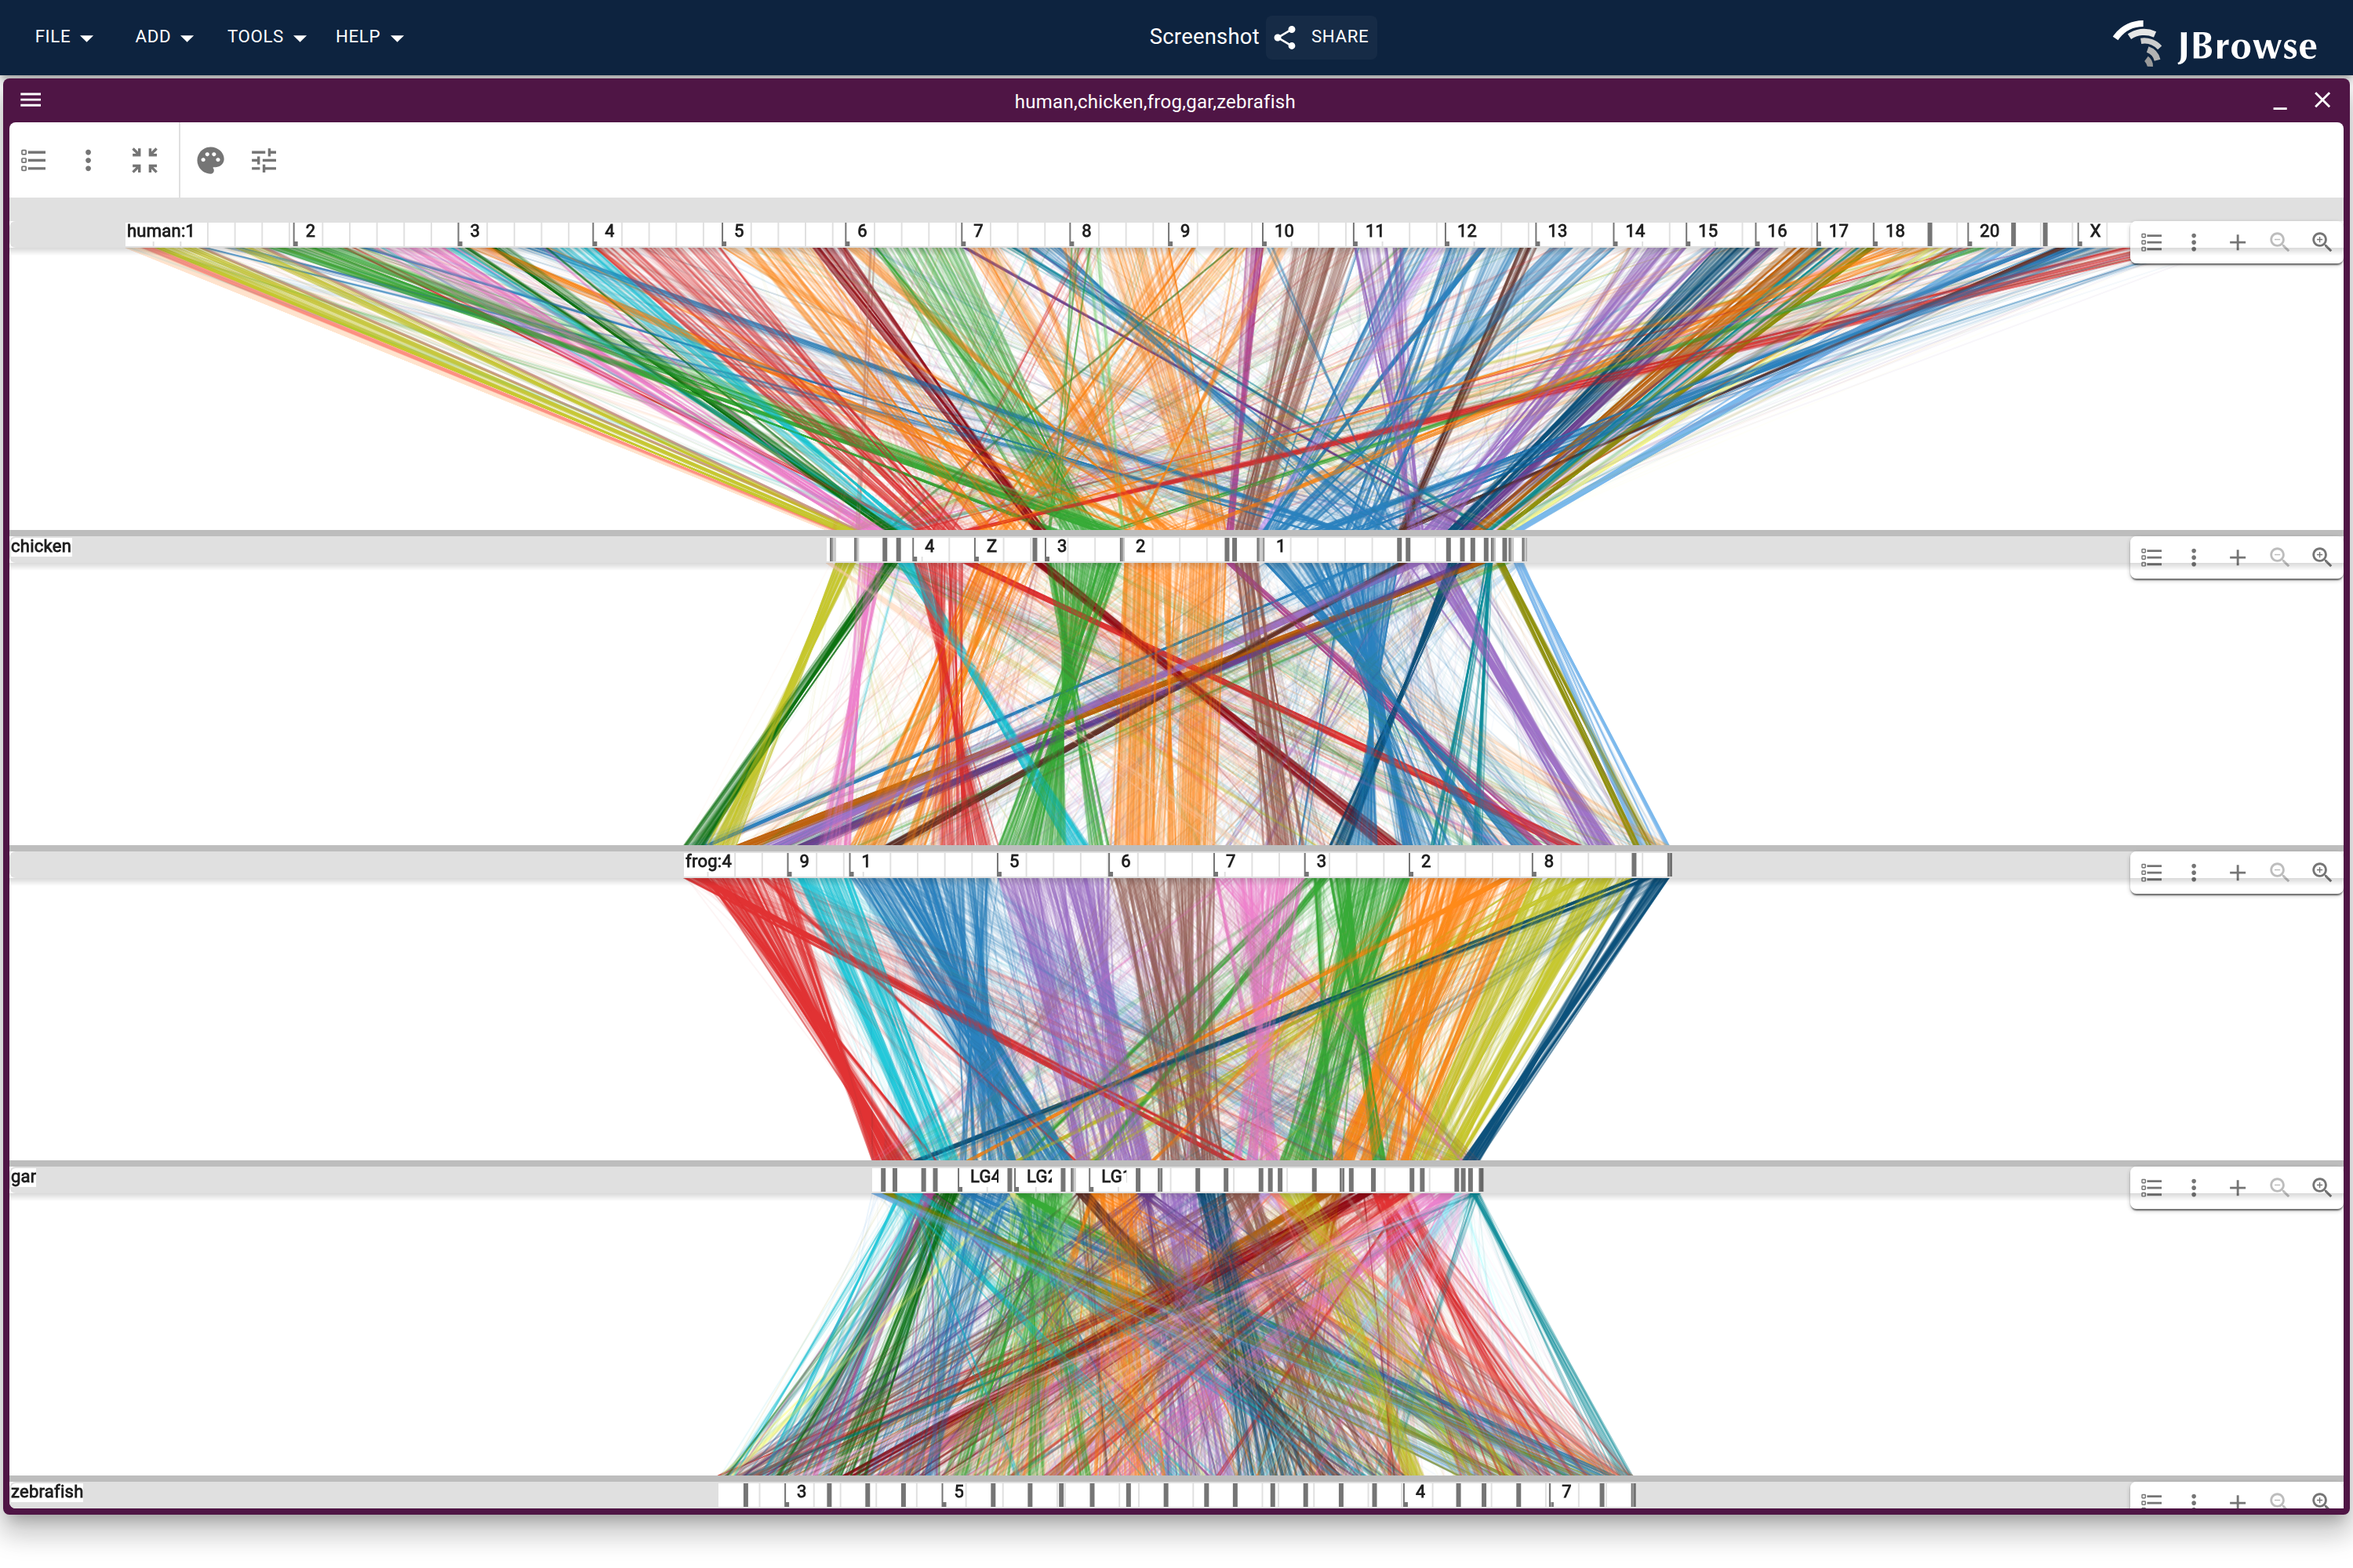
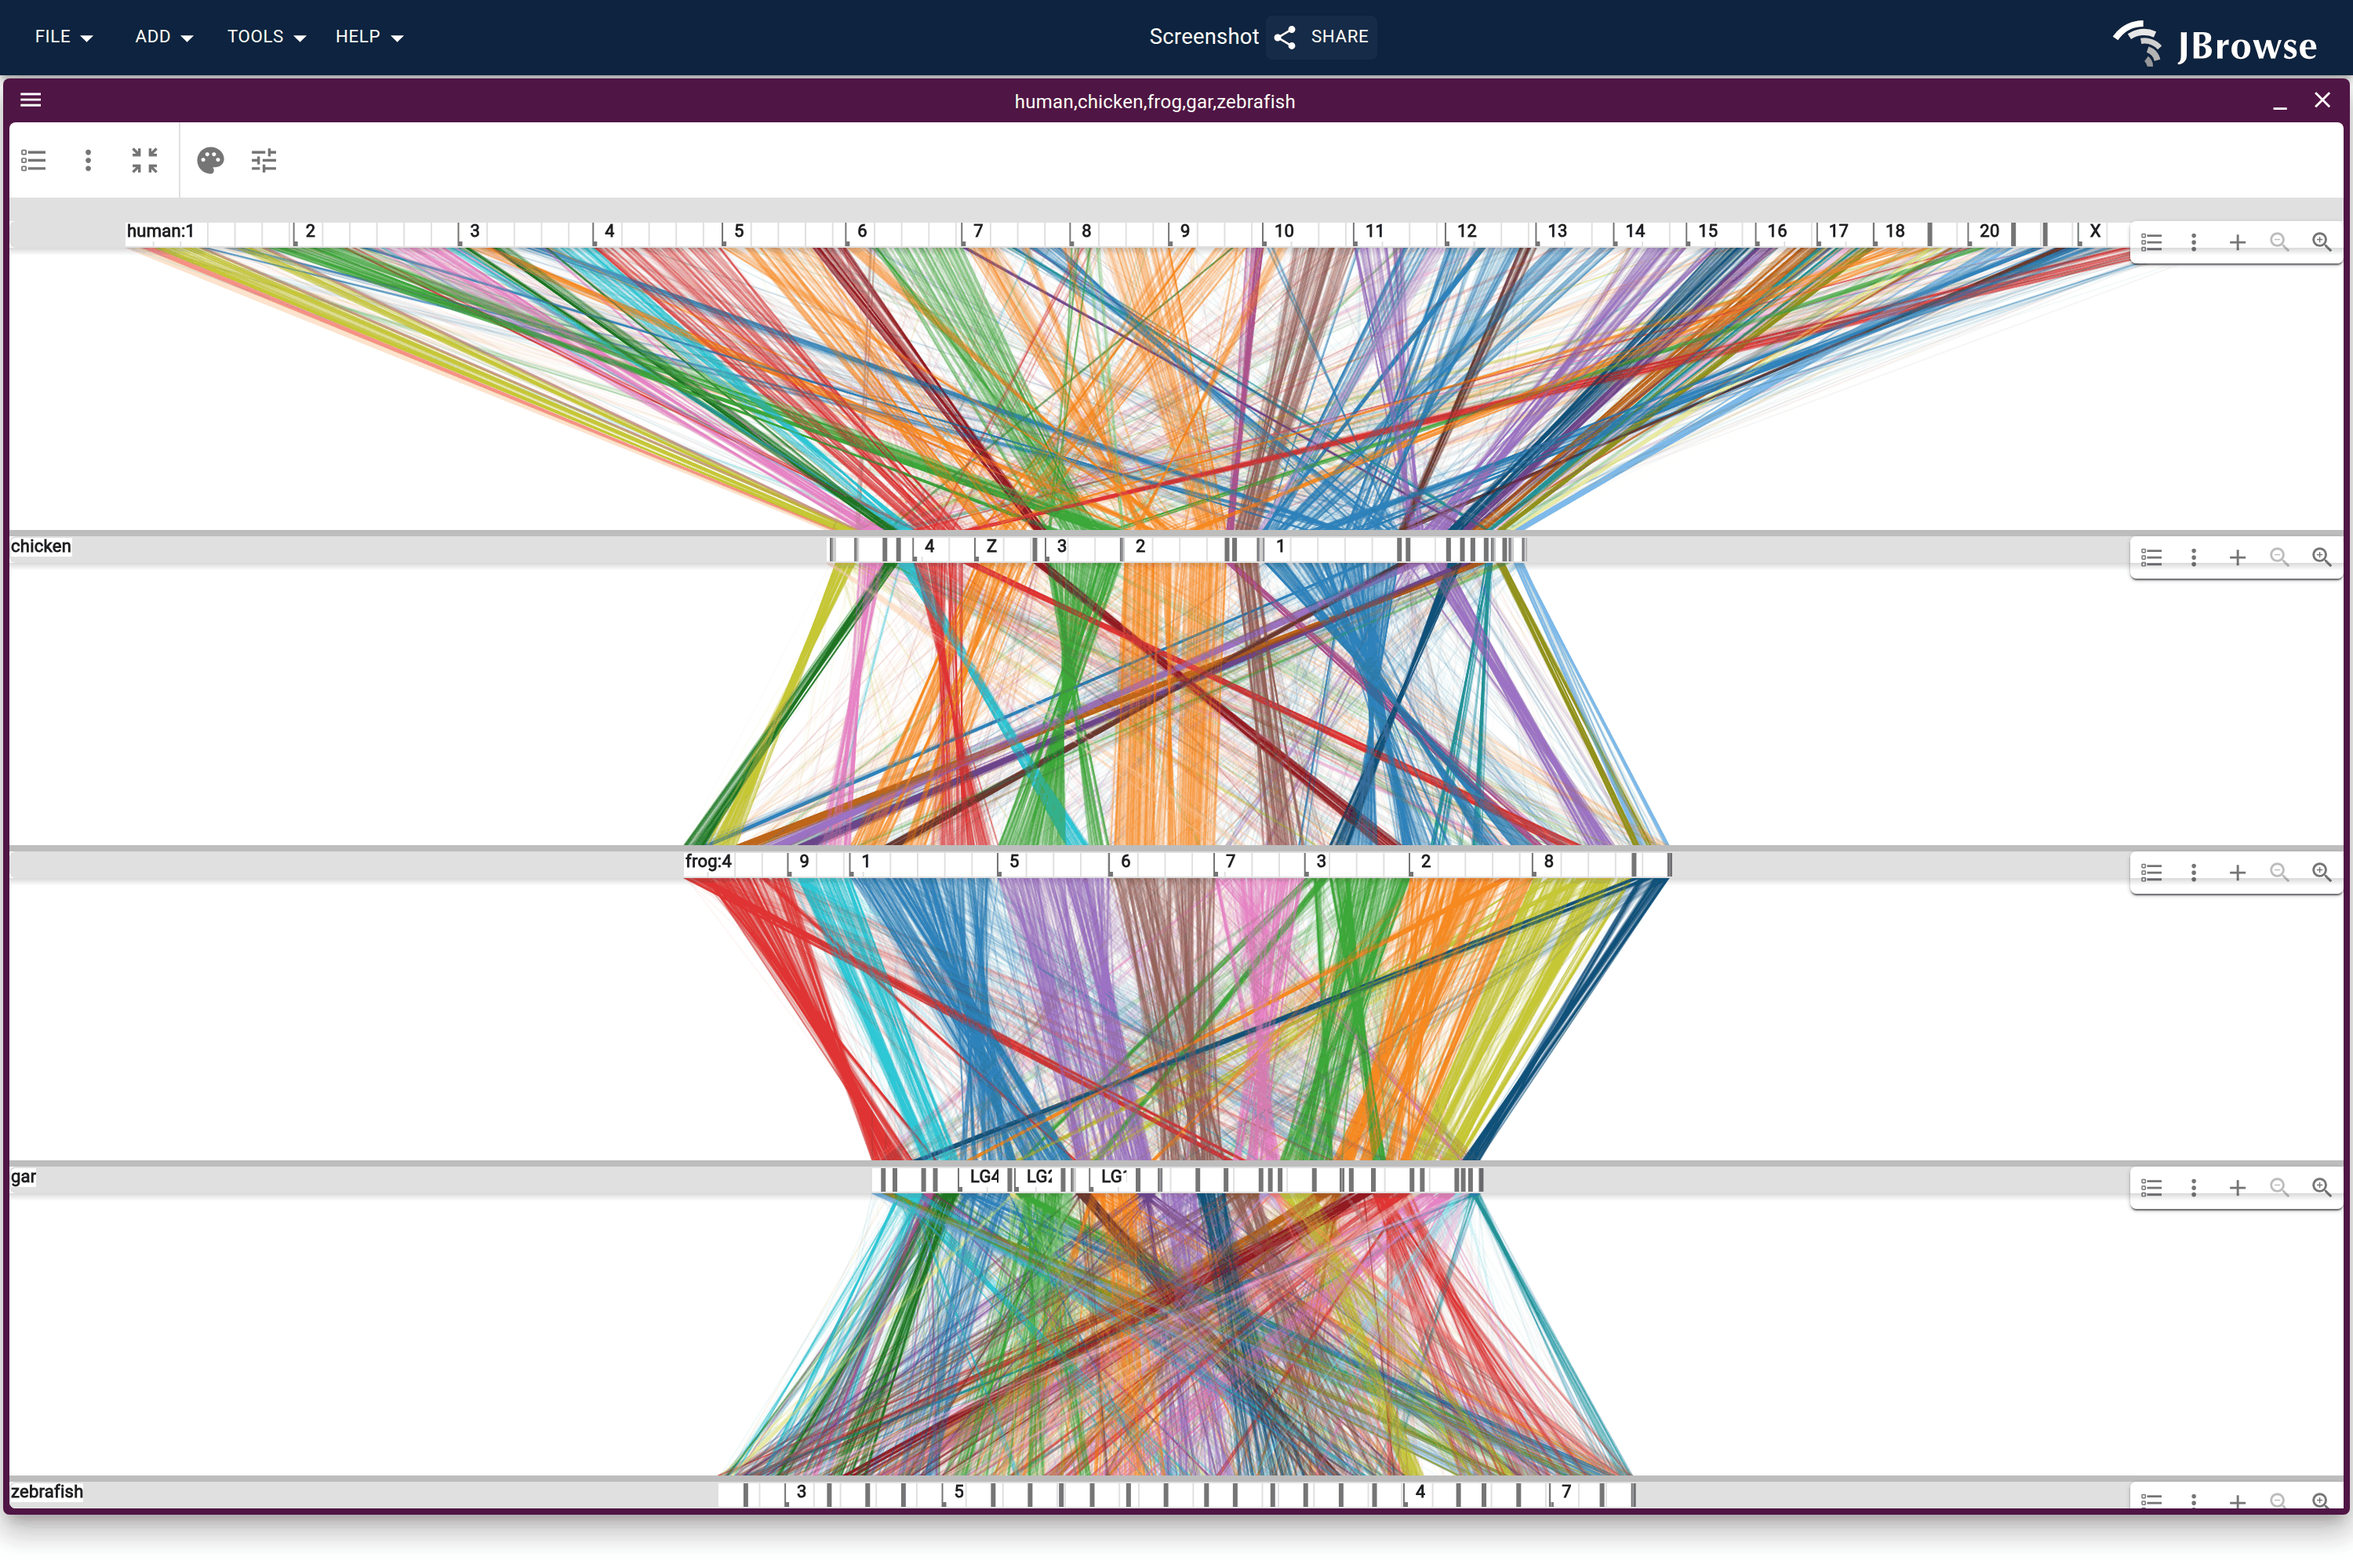
fix(website): stop shipping the ribbon-stack figures unquantized
orthofinder_synteny/vertebrates went from a 1.3 MB palette PNG to a 3.8 MB
truecolor one when its per-link alpha was raised from 0.15 to 0.3, and nothing
in the diff said so. pngquant leaves a PNG untouched when it cannot hit its
quality floor in 256 colors, and optimizePng's ladder stopped at 70: the alpha
change moved this figure's achievable quality one rung below that, so both
passes gave up and the raw render shipped. wheat had already been over that
line at 5.5 MB. static/img is served directly, with no resizing layer, so those
are the bytes a reader on the tutorial page downloads.

A third rung at 60 rescues both: vertebrates 3.8 -> 1.3 MB, wheat 5.5 -> 1.4 MB,
at RMSE 1.6% and 1.8% -- the same band the 70 rung was already accepted at, and
no banding in the ribbons on inspection. The floor is a give-up threshold rather
than a quality dial, which is what makes this cheap: on these two, 60, 50 and 40
all yield the byte-identical palette, so the number only decides whether the
result gets written.

optimizePng now returns early on a PNG that is already indexed-color. It only
ever sees a fresh truecolor render during a regen, but it is also the one-liner
you reach for to re-optimize committed figures after changing the ladder -- as
here -- and a second call re-derives a palette from the palette and spends
another RMSE budget for it.

The orthofinder_synteny tutorial thumb follows its source figure; the other two
[…]

Changed region(s): [[0.31, 0.465, 0.341, 0.496]]

diff --git a/website/scripts/image-pipeline.ts b/website/scripts/image-pipeline.ts
@@ -196,6 +196,24 @@ export function commitScreenshot(
   }
 }
 
+// PNG color type 3 is "indexed-color", i.e. what pngquant writes. It is the byte
+// after the bit depth in IHDR, which is the first chunk and always at a fixed
+// offset: 8-byte signature, then the chunk's 4-byte length and 4-byte type, then
+// width, height, bit depth. Read straight rather than shelling out to identify —
+// this runs once per figure in a 288-spec sweep.
+function isPalettePng(file: string) {
+  const head = Buffer.alloc(26)
+  const fd = fs.openSync(file, 'r')
+  try {
+    if (fs.readSync(fd, head, 0, head.length, 0) < head.length) {
+      return false
+    }
+  } finally {
+    fs.closeSync(fd)
+  }
+  return head.subarray(12, 16).toString('latin1') === 'IHDR' && head[25] === 3
+}
+
 // Lossily quantize a PNG in place with pngquant. These captures are flat-color
 // UI screenshots with small palettes, so quantization shrinks them ~50-60% with
 // no perceptible quality loss — worth it for a static site served over the
@@ -212,20 +230,40 @@ export function commitScreenshot(
 // so an unchanged spec re-renders byte-for-byte. Bonus: it also shrinks the files
 // (~40% on chrome-heavy captures) since the dither noise was pure entropy.
 //
-// TWO PASSES, because the strict one silently gives up on exactly the figures
-// that need it most. pngquant fails (leaving the PNG untouched) when it cannot
-// hit the quality floor in 256 colors, and the images that defeat it are the
-// dense ones: a whole-genome ribbon stack drawn at a low per-feature alpha
+// A LADDER OF FLOORS, because the strict pass silently gives up on exactly the
+// figures that need it most. pngquant fails (leaving the PNG untouched) when it
+// cannot hit the quality floor in 256 colors, and the images that defeat it are
+// the dense ones: a whole-genome ribbon stack drawn at a low per-feature alpha
 // blends tens of thousands of hairlines into a huge palette of near-white
 // tints, which is both incompressible and unquantizable at 90. Those shipped
-// unoptimized at 6-8 MB while every flat UI capture around them was under 1 MB
+// unoptimized at 4-8 MB while every flat UI capture around them was under 1 MB
 // — the site serves static/img directly, with no resizing layer, so that is
-// what a reader downloads. The 70 floor is only ever reached by an image the 90
-// floor refused, so nothing that quantizes cleanly today changes; on the
-// figures that need it, it is 8.5 MB -> 3.0 MB at RMSE 1.6%, with no banding
-// visible in the ribbons.
+// what a reader downloads. Each floor is only ever reached by an image the one
+// above it refused, so nothing that quantizes cleanly today changes.
+//
+// The floor is a give-up threshold, not a quality dial: on the ribbon stacks,
+// 60, 50 and 40 all produce the byte-identical palette, and the only thing the
+// number decides is whether pngquant writes it. So a floor that is too high
+// buys no fidelity — it just ships the 4 MB original. Measured on the two
+// figures that reach the bottom rung, orthofinder_synteny/vertebrates
+// (3.8 -> 1.3 MB, RMSE 1.6%) and wheat (5.5 -> 1.4 MB, RMSE 1.8%), which is the
+// same error band the 70 rung was already accepted at, with no banding visible
+// in the ribbons.
+//
+// vertebrates is why 60 is here: it quantized at 70 until its per-link alpha was
+// raised from 0.15 to 0.3, which moved it one rung down and, with only two rungs,
+// off the ladder — a figure tripling in bytes with nothing in the diff to say so.
 export function optimizePng(file: string) {
-  for (const quality of ['90-100', '70-100']) {
+  // Quantizing an already-quantized PNG is not a no-op: pngquant re-derives a
+  // palette from the palette, so a second call spends another RMSE budget and
+  // writes different bytes. In a regen the input is always a fresh TrueColor
+  // render, but this is also the one-liner you reach for to re-optimize a
+  // committed figure after changing the ladder, and there a double call would
+  // quietly compound the loss.
+  if (isPalettePng(file)) {
+    return
+  }
+  for (const quality of ['90-100', '70-100', '60-100']) {
     try {
       execFileSync(
         'pngquant',
